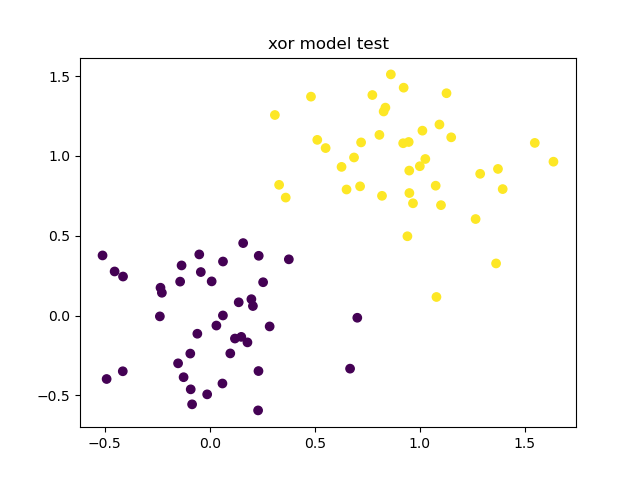
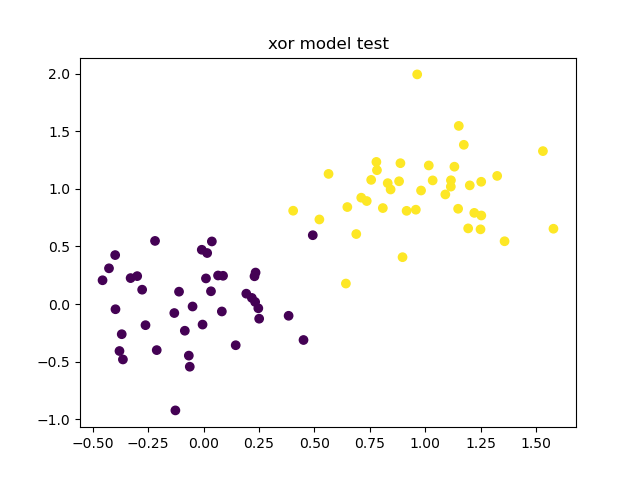
some features

diff --git a/lab2/lab2.py b/lab2/lab2.py
@@ -121,7 +121,7 @@ class GIPerceptron(): # Geometric intuition algorithm
     def predict(self, x):
         return self.binary_step(x @ self.weights + self.bias)
 
-    def train(self, x: torch.Tensor, y, epochs=2000):
+    def train(self, x: torch.Tensor, y, epochs=100):
         for epoch in range(epochs):
             errors = 0
             for i in range(x.shape[0]):
@@ -147,9 +147,20 @@ class Perceptron2(nn.Module):
         super(Perceptron2, self).__init__()
         self.fully_connected = nn.Linear(2, 1) # (x1, x2) --> y
         self.activation_function = nn.Sigmoid()
+        self.criterion = nn.BCELoss()
+        self.optimizer = optim.SGD(self.parameters(), lr=0.1)
 
     def forward(self, x):
         return self.activation_function(self.fully_connected(x))
+    
+    def train(self, x: torch.Tensor, y: torch.Tensor, epochs=100):
+        for epoch in range(epochs):
+            self.optimizer.zero_grad() # Сбрасываем значения градиента
+            outputs = self(train_x_samples) # Вычисляем выходные значения по выборке на текущей итерации
+            loss = self.criterion(outputs, train_y_samples) # Вычисляем функцию ошибки
+            loss.backward() #Обратное распространенние ошибки
+            self.optimizer.step() #Снова вычисляем градиент
+            print(f'Epoch [{epoch+1}/{epochs}], Loss: {loss.item():.4f}')
 
 
 train_x_samples, train_y_samples = generate_gaussian_data(TRAINING_N)
@@ -166,13 +177,33 @@ plt.savefig("xortest.png")
 train_x_samples = torch.tensor(train_x_samples, dtype=torch.float32)
 test_x_samples = torch.tensor(test_x_samples, dtype=torch.float32)
 
-gi_model = GIPerceptron()
-gi_model.train(train_x_samples, train_y_samples)
+# Матрица ошибок Перцептрона со ступенчатой функцией
+# gi_model = GIPerceptron()
+# gi_model.train(train_x_samples, train_y_samples)
 
-preds = gi_model.predict(test_x_samples)
+# preds = gi_model.predict(test_x_samples)
 
-np_preds = np.array(preds)
-np_y = np.array(test_y_samples)
+grad_model = Perceptron2()
+criterion = nn.BCELoss()  # Функция ошибки, в данном случаем бинарная кросс-энтропия
+optimizer = optim.SGD(grad_model.parameters(), lr=0.1)
+
+grad_model.train(x=train_x_samples, y=train_y_samples)
+
+# epochs = 60
+# for epoch in range(epochs):
+#     optimizer.zero_grad() # Сбрасываем значения градиента
+#     outputs = grad_model(train_x_samples) # Вычисляем выходные значения по выборке на текущей итерации
+#     loss = criterion(outputs, train_y_samples) # Вычисляем функцию ошибки
+#     loss.backward() #Обратное распространенние ошибки
+#     optimizer.step() #Снова вычисляем градиент
+    
+#     print(f'Epoch [{epoch+1}/{epochs}], Loss: {loss.item():.4f}')
+
+preds = grad_model(test_x_samples)
+np_preds = (preds.detach().numpy() >= 0.5).astype(int)  # Convert probabilities to binary labels
+np_y = test_y_samples.detach().numpy().astype(int)  # Ensure true labels are integers
+
+
 
 cm = confusion_matrix(np_preds, np_y)
 
